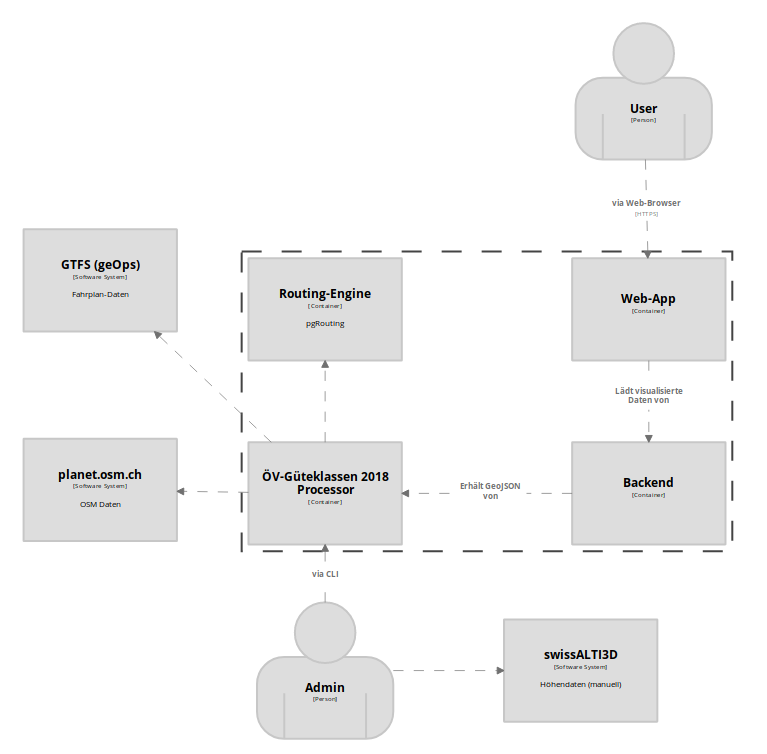
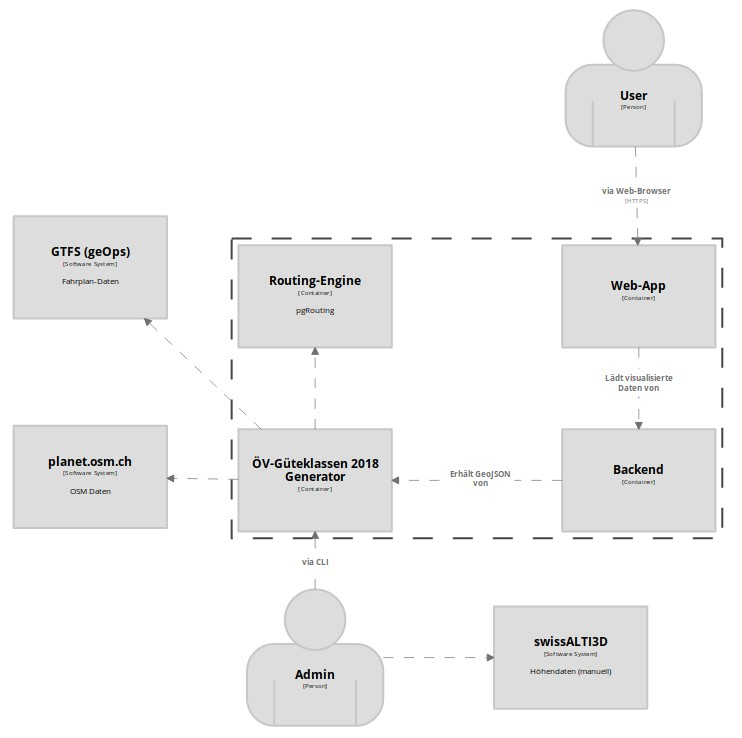
rename processor to generator

diff --git a/projectdoc/architektur.tex b/projectdoc/architektur.tex
@@ -5,7 +5,7 @@
 In diesem Kapitel wird die Architektur unserer Applikation und die Schnittstellen zu den Umsystemen besprochen.
 Als Anhaltspunkt wird das C4 Modell \cite{c4model} von Simon Brown verwendet.
 In einem ersten Schritt wird unsere Applikation ''ÖV-Güteklassen 2018'' in den Kontext des grösseren Systems gesetzt.
-Anschliessend teilen wir das System ''ÖV-Güteklassen 2018'' in einzelne Container und den zentralen Container ''ÖV-Güteklassen 2018 Processor'' in einzelne Komponenten auf.
+Anschliessend teilen wir das System ''ÖV-Güteklassen 2018'' in einzelne Container und den zentralen Container ''ÖV-Güteklassen 2018 Generator'' in einzelne Komponenten auf.
 
 \subsection{Systemkontext}
 \label{Architektur:Systemkontext}
@@ -124,8 +124,8 @@ Die beiden Varianten werden im Kapitel \ref{Analyse:Evaluation Frontend-Framewor
 Die Routing-Engine ist für die Berechnung von Isolinien verantwortlich.
 Dazu werden zuerst periodisch die Kartendaten von \nameref{subsystem:planet.osm.ch} eingelesen und zusammen mit dem \gls{Terrainmodell} von \nameref{subsystem:swissALTI3D}, das zuvor vom Admin manuell besorgt wurde, eine Routing-Topologie erstellt.
 
-Sobald der Admin die Berechnung der ÖV-Güteklassen auslöst, wird die Routing-Engine vom \nameref{container:processor} nach Isolinien abgefragt, die mit Haltestellen als Startpunkt und einer gewissen Distanz (gewichtet nach Höhenunterschied) berechnet werden.
-Diese Isodistanzen bilden Polygone, die anschliessend vom Processor weiter verarbeitet werden.
+Sobald der Admin die Berechnung der ÖV-Güteklassen auslöst, wird die Routing-Engine vom \nameref{container:generator} nach Isolinien abgefragt, die mit Haltestellen als Startpunkt und einer gewissen Distanz (gewichtet nach Höhenunterschied) berechnet werden.
+Diese Isodistanzen bilden Polygone, die anschliessend vom Generator weiter verarbeitet werden.
 
 
 \subsection{Code}
